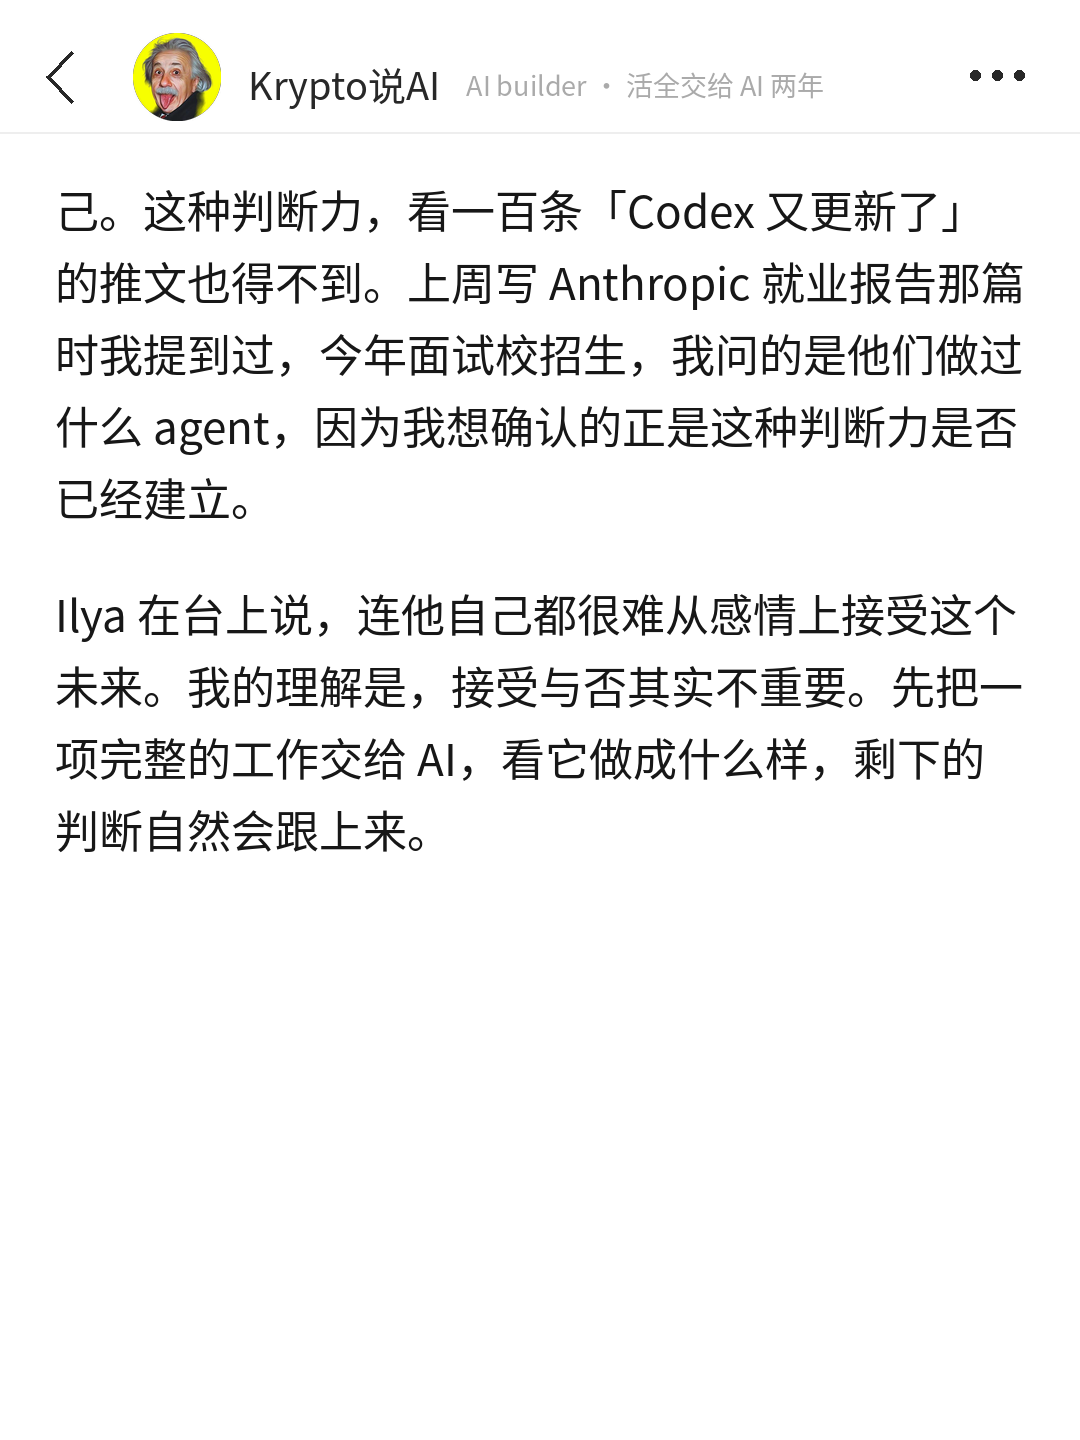
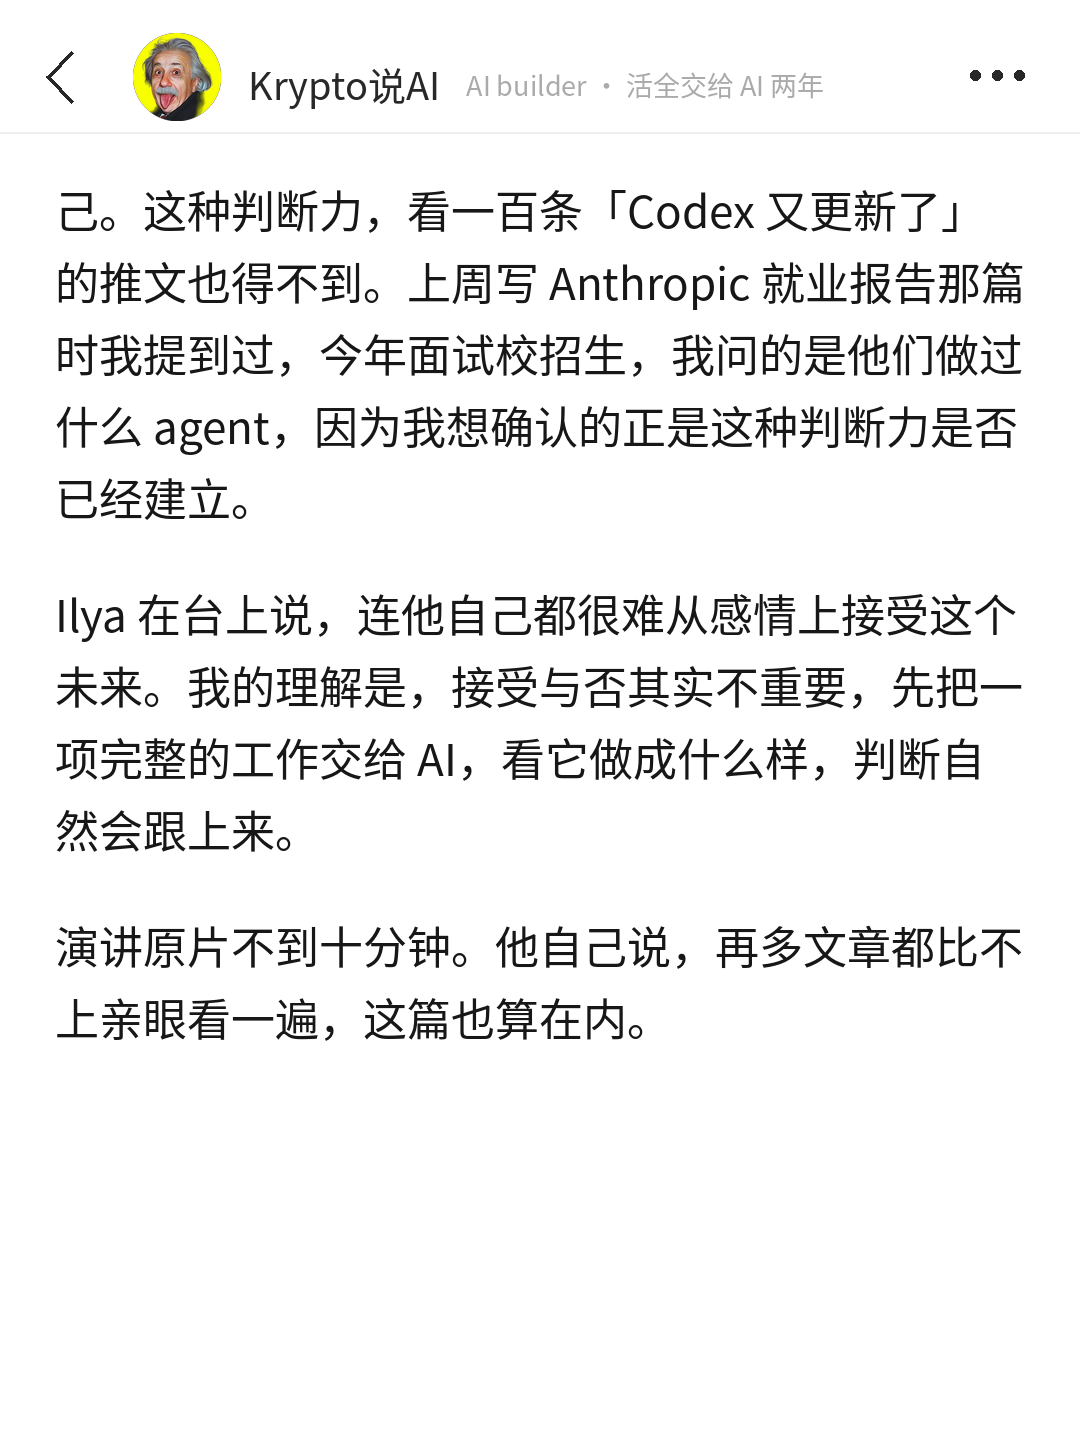
结尾按对标库 13 篇的五种收法重写 v2 §6；Ilya 稿结尾回扣原话
Claude-Session: https://claude.ai/code/session_017tvE9f3JBJNdHBN9dZEhix

diff --git a/skills/meme-v2/references/writing_guide.md b/skills/meme-v2/references/writing_guide.md
@@ -83,18 +83,14 @@
 
 ## 6. 结尾
 
-**一种就够，不叠加**（10-21 用户看 Ilya 稿末页「有点强行加的感觉」：那一页叠了「没劝过的人」+「你」的时刻 + 以前 / 现在 + 两类读者各一句，四个槽位一页，每个都是规则要的，没有一个是文章要的）。结尾从下面挑一种，写一段，写完就停：
-- **落到自己一件小事**（MemeInformation：「每个月花大几百块买的投研工具会员确实不太划算，该停一停了」）。
-- **往下收一句评价**（小盖：「整体来说，还行还行。」）。
-- **「以前……现在……」+ 两类读者各一句**（「以前我面校招生问的是你做过什么，现在问的是你让 agent 做过什么。还在找工作的同学，带一个自己搭的 agent 来面试；已经工作几年的人，回头数数手上的活有几件还停在干活那一层」）。以前和现在必须是用户真实的变化。
+对标库 13 篇的结尾数了一遍（10-21），只有五种，每篇只用一种，一段或一句写完就停：
+- **向上问一个问题，不答**：「只是，这个经济价值，真的能撑起来神一样的估值吗？」（小盖李录稿）
+- **把问题交给读者，带自己的答案**：「你心里那个一直在响的声音，你到底是在选择听见它，还是在选择把它盖住」（西元 Mark）；「大家觉得……最应该焊死在身上的护城河是什么？我觉得是……」（JackClark 稿）
+- **一句对世界的判断，前面紧跟一个具体场景**：「以后我只需要说一句我要去上海……谁掌握了用户的意图，谁就拿到了最上游的入口」（小盖 Personal Agent）
+- **推荐原片，带时间锚**：「这应该是中秋假期最值得读的一篇文章了」（小盖 Muse）；「话说我太喜欢 Natura-1 的技术报告了，大家有时间可以看看」（小盖 Natura）。开头不许「推荐看看」，结尾可以
+- **回扣开头的意象或原话**：「三组狼都没有消失」（西元 Peter）；「慢下来，才能跑得快」（西元 Jen）
 
-末段 40 字以内最好。不总结、不展望、不预告、不喊关注、不对仗、不用一句抽象俏皮话单独收尾。retell 稿结尾前一段 150 到 300 字是「我」的判断，然后照上面收。
-
-**转述别人的话，主语轮着来，「他」每千字不超过 8 个。**（10-21 用户看 Ilya 稿后定：「他」用得太频繁。）轮换的办法：直接用名字（「Ilya 说」）、省略主语（「讲到这里停了一下」）、拿内容当主语（「建议只留了一条」「接下来才是正题」「答案只有一句话」）、用原话（「Ilya 原话是，连我自己都很挣扎」）。连着两句都以「他」开头就要改。
-
-**用词口径是科技 AI 栏目主编写的文字，不是跟朋友聊天。**（10-21 用户看 Ilya 稿后定：「有人说三年就到」「拿自己的活去换」「我自己量出来的」「有没有长出来」一看就是 AI 写的，要让读者觉得是内容工作者写的。）具体三条：谓语用双字词，不用单字口语动词收尾（到→到来 / 实现，换→换取，量→测出，长→建立 / 形成，交→交出去 / 交付）；口语名词「活」换成工作 / 任务 / 项目（slogan 里的「活全交给 AI」是品牌语，正文不用）；不自问自答（「那该怎么办？他借了……」→「对于该怎么办，他借用了一句老话」），不用「不是 X，是 Y」当判断句，不用「直觉长出来」「拿活去换」这类自造的口语比喻。
-
-**从字幕、转录、英文原文来的句子，不照字面转述。** 字幕是译出来的，直接搬进稿子就是翻译腔。念一遍，换成中文里本来的说法：「这话常有人说，这次是真的」→「这种话每一代人都听过，但这回不是套话」；「他只给一点」→「这回就不多给了」；「很多地方还得追赶」→「很多地方差得远」；「他引了一句话：」→「他借了一句老话：」；「看看今天最好的 AI 能做什么，直觉会越来越强」→「把今天最好的模型用上一阵子，你自己就会有感觉」。原话要引就整句引，标明是原话。
+没有一篇用「两类读者各一句」「以前……现在……」「做 X 的朋友 / 还在观望的朋友」。那是我们自己发明的槽位，10-21 Ilya 稿末页被退回就是因为叠了这几样。末段 40 字以内最好。不总结、不展望、不预告、不喊关注、不对仗。retell 稿结尾前一段是「我」的判断，然后照上面收。
 
 ## 7. 转述荐读（`mode: retell`）
 

diff --git a/发布/2026-10-21_ilya-uoft-speech/meme-v2版/编辑用/draft.md b/发布/2026-10-21_ilya-uoft-speech/meme-v2版/编辑用/draft.md
@@ -39,4 +39,6 @@ account: Krypto说AI
 
 失败的经历同样重要。我曾经让 Codex 定时生成一批数据站点，背后每次都要执行很重的 MCP 查询和计算。结果 token 消耗极快，数据量一大，页面组装就会出错。经历了这次失败，我才知道它在哪个环节不可靠，也才知道哪类工作应该留给自己。这种判断力，看一百条「Codex 又更新了」的推文也得不到。上周写 Anthropic 就业报告那篇时我提到过，今年面试校招生，我问的是他们做过什么 agent，因为我想确认的正是这种判断力是否已经建立。
 
-Ilya 在台上说，连他自己都很难从感情上接受这个未来。我的理解是，接受与否其实不重要。先把一项完整的工作交给 AI，看它做成什么样，剩下的判断自然会跟上来。
+Ilya 在台上说，连他自己都很难从感情上接受这个未来。我的理解是，接受与否其实不重要，先把一项完整的工作交给 AI，看它做成什么样，判断自然会跟上来。
+
+演讲原片不到十分钟。他自己说，再多文章都比不上亲眼看一遍，这篇也算在内。
